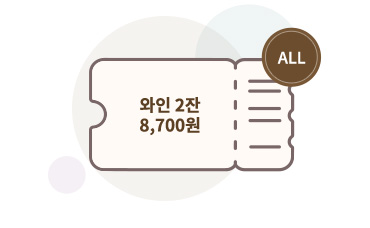
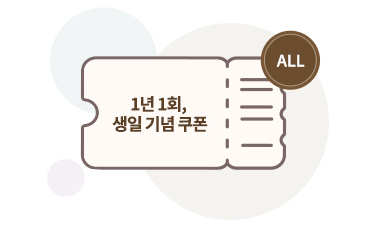
i

Changed region(s): [[0.2081, 0.0925, 0.8919, 0.7709]]

diff --git a/membership/membership.html b/membership/membership.html
@@ -206,8 +206,8 @@
               <button class="btn">쿠폰 사용 조건</button>
             </li>
             <li>
-              <img src="../img/membership/benefit_icon02.jpg" alt="1년 1회, 생일 기념 쿠폰" class="pc" />
-              <img src="../img/membership/benefit_icon02_m.jpg" alt="1년 1회, 생일 기념 쿠폰" class="mobile" />
+              <img src="../img/membership/benefit_icon02.jpg" alt="블랙라벨 스테이크 세트 할인 쿠폰" class="pc" />
+              <img src="../img/membership/benefit_icon02_m.jpg" alt="블랙라벨 스테이크 세트 할인 쿠폰" class="mobile" />
               <div class="text-group">
                 <div class="title">
                   아웃백 프리미엄 블랙라벨<br />
@@ -221,8 +221,8 @@
               <button class="btn">쿠폰 사용 조건</button>
             </li>
             <li>
-              <img src="../img/membership/benefit_icon03.jpg" alt="와인 2잔 8,700원" class="pc" />
-              <img src="../img/membership/benefit_icon03_m.jpg" alt="와인 2잔 8,700원" class="mobile" />
+              <img src="../img/membership/benefit_icon03.jpg" alt="1년 1회, 생일 기념 쿠폰" class="pc" />
+              <img src="../img/membership/benefit_icon03_m.jpg" alt="1년 1회, 생일 기념 쿠폰" class="mobile" />
               <div class="text-group">
                 <div class="title">
                   소중한 당신의 생일,<br />
@@ -236,19 +236,19 @@
               <button class="btn">쿠폰 사용 조건</button>
             </li>
             <li>
-              <img src="../img/membership/benefit_icon04.jpg" alt="이벤트" class="pc" />
-              <img src="../img/membership/benefit_icon04_m.jpg" alt="이벤트" class="mobile" />
+              <img src="../img/membership/benefit_icon04.jpg" alt="와인 2잔 8,700원" class="pc" />
+              <img src="../img/membership/benefit_icon04_m.jpg" alt="와인 2잔 8,700원" class="mobile" />
               <div class="text-group">
                 <div class="title">
                   와인 2잔을 8,700원에<br />
                   즐길 수 있는 혜택
                 </div>
               </div>
-              <button class="btn">쿠폰 사용 조건</button>
+              <button class="btn">혜택 사용 조건</button>
             </li>
             <li>
-              <img src="../img/membership/benefit_icon05.jpg" alt="할인 or 적립" class="pc" />
-              <img src="../img/membership/benefit_icon05_m.jpg" alt="할인 or 적립" class="mobile" />
+              <img src="../img/membership/benefit_icon05.jpg" alt="이벤트" class="pc" />
+              <img src="../img/membership/benefit_icon05_m.jpg" alt="이벤트" class="mobile" />
               <div class="text-group">
                 <div class="title">부메랑 이벤트</div>
                 <p class="description">
@@ -257,8 +257,8 @@
               </div>
             </li>
             <li>
-              <img src="../img/membership/benefit_icon06.jpg" alt="블랙라벨 스테이크 세트 할인 쿠폰" class="pc" />
-              <img src="../img/membership/benefit_icon06_m.jpg" alt="블랙라벨 스테이크 세트 할인 쿠폰" class="mobile" />
+              <img src="../img/membership/benefit_icon06.jpg" alt="할인 or 적립" class="pc" />
+              <img src="../img/membership/benefit_icon06_m.jpg" alt="할인 or 적립" class="mobile" />
               <div class="text-group">
                 <div class="title">10% 할인 or 2% 적립</div>
                 <p class="description">

diff --git a/css/style_pc.css b/css/style_pc.css
@@ -1005,13 +1005,9 @@ main.membership > .inner {
   background: url("../img/membership/benefit_title_icon.png") no-repeat center/cover;
 }
 
-.membership-benefit__menu {
-  overflow: hidden;
-}
-
 .membership-benefit__menu li {
-  float: left;
-  width: 33.33%;
+  display: inline-block;
+  width: 33%;
   padding-bottom: 50px;
   text-align: center;
 }
